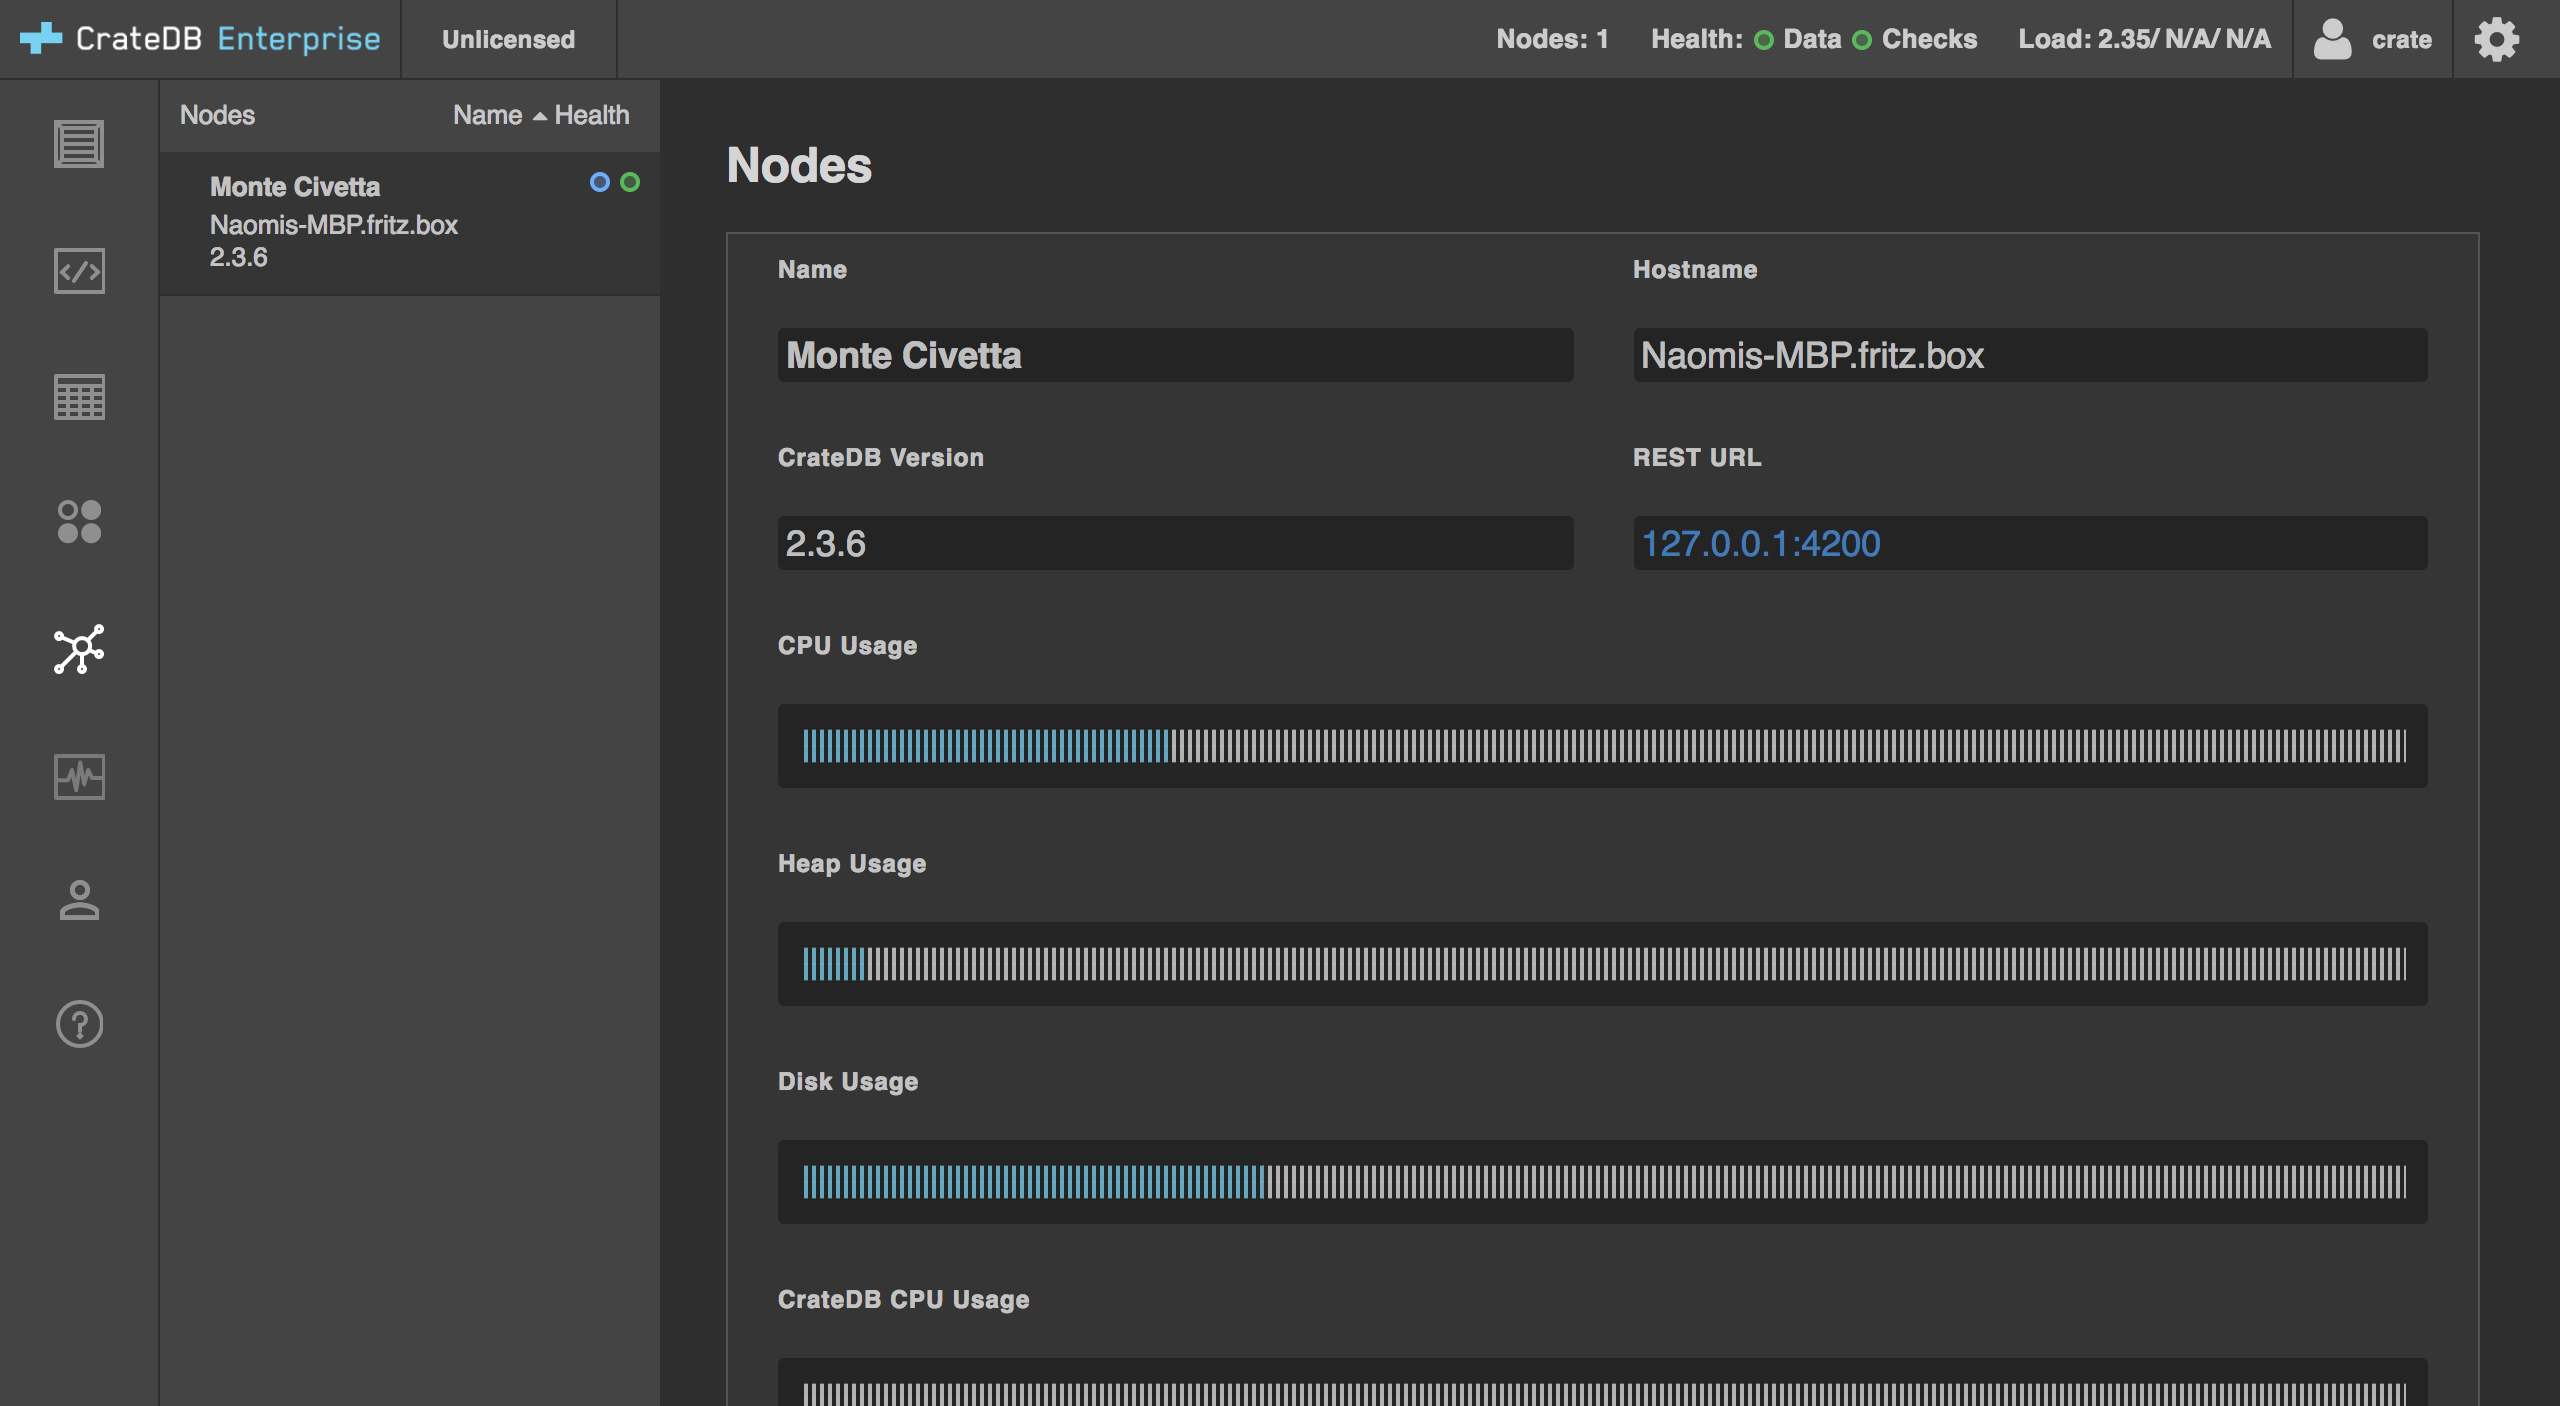
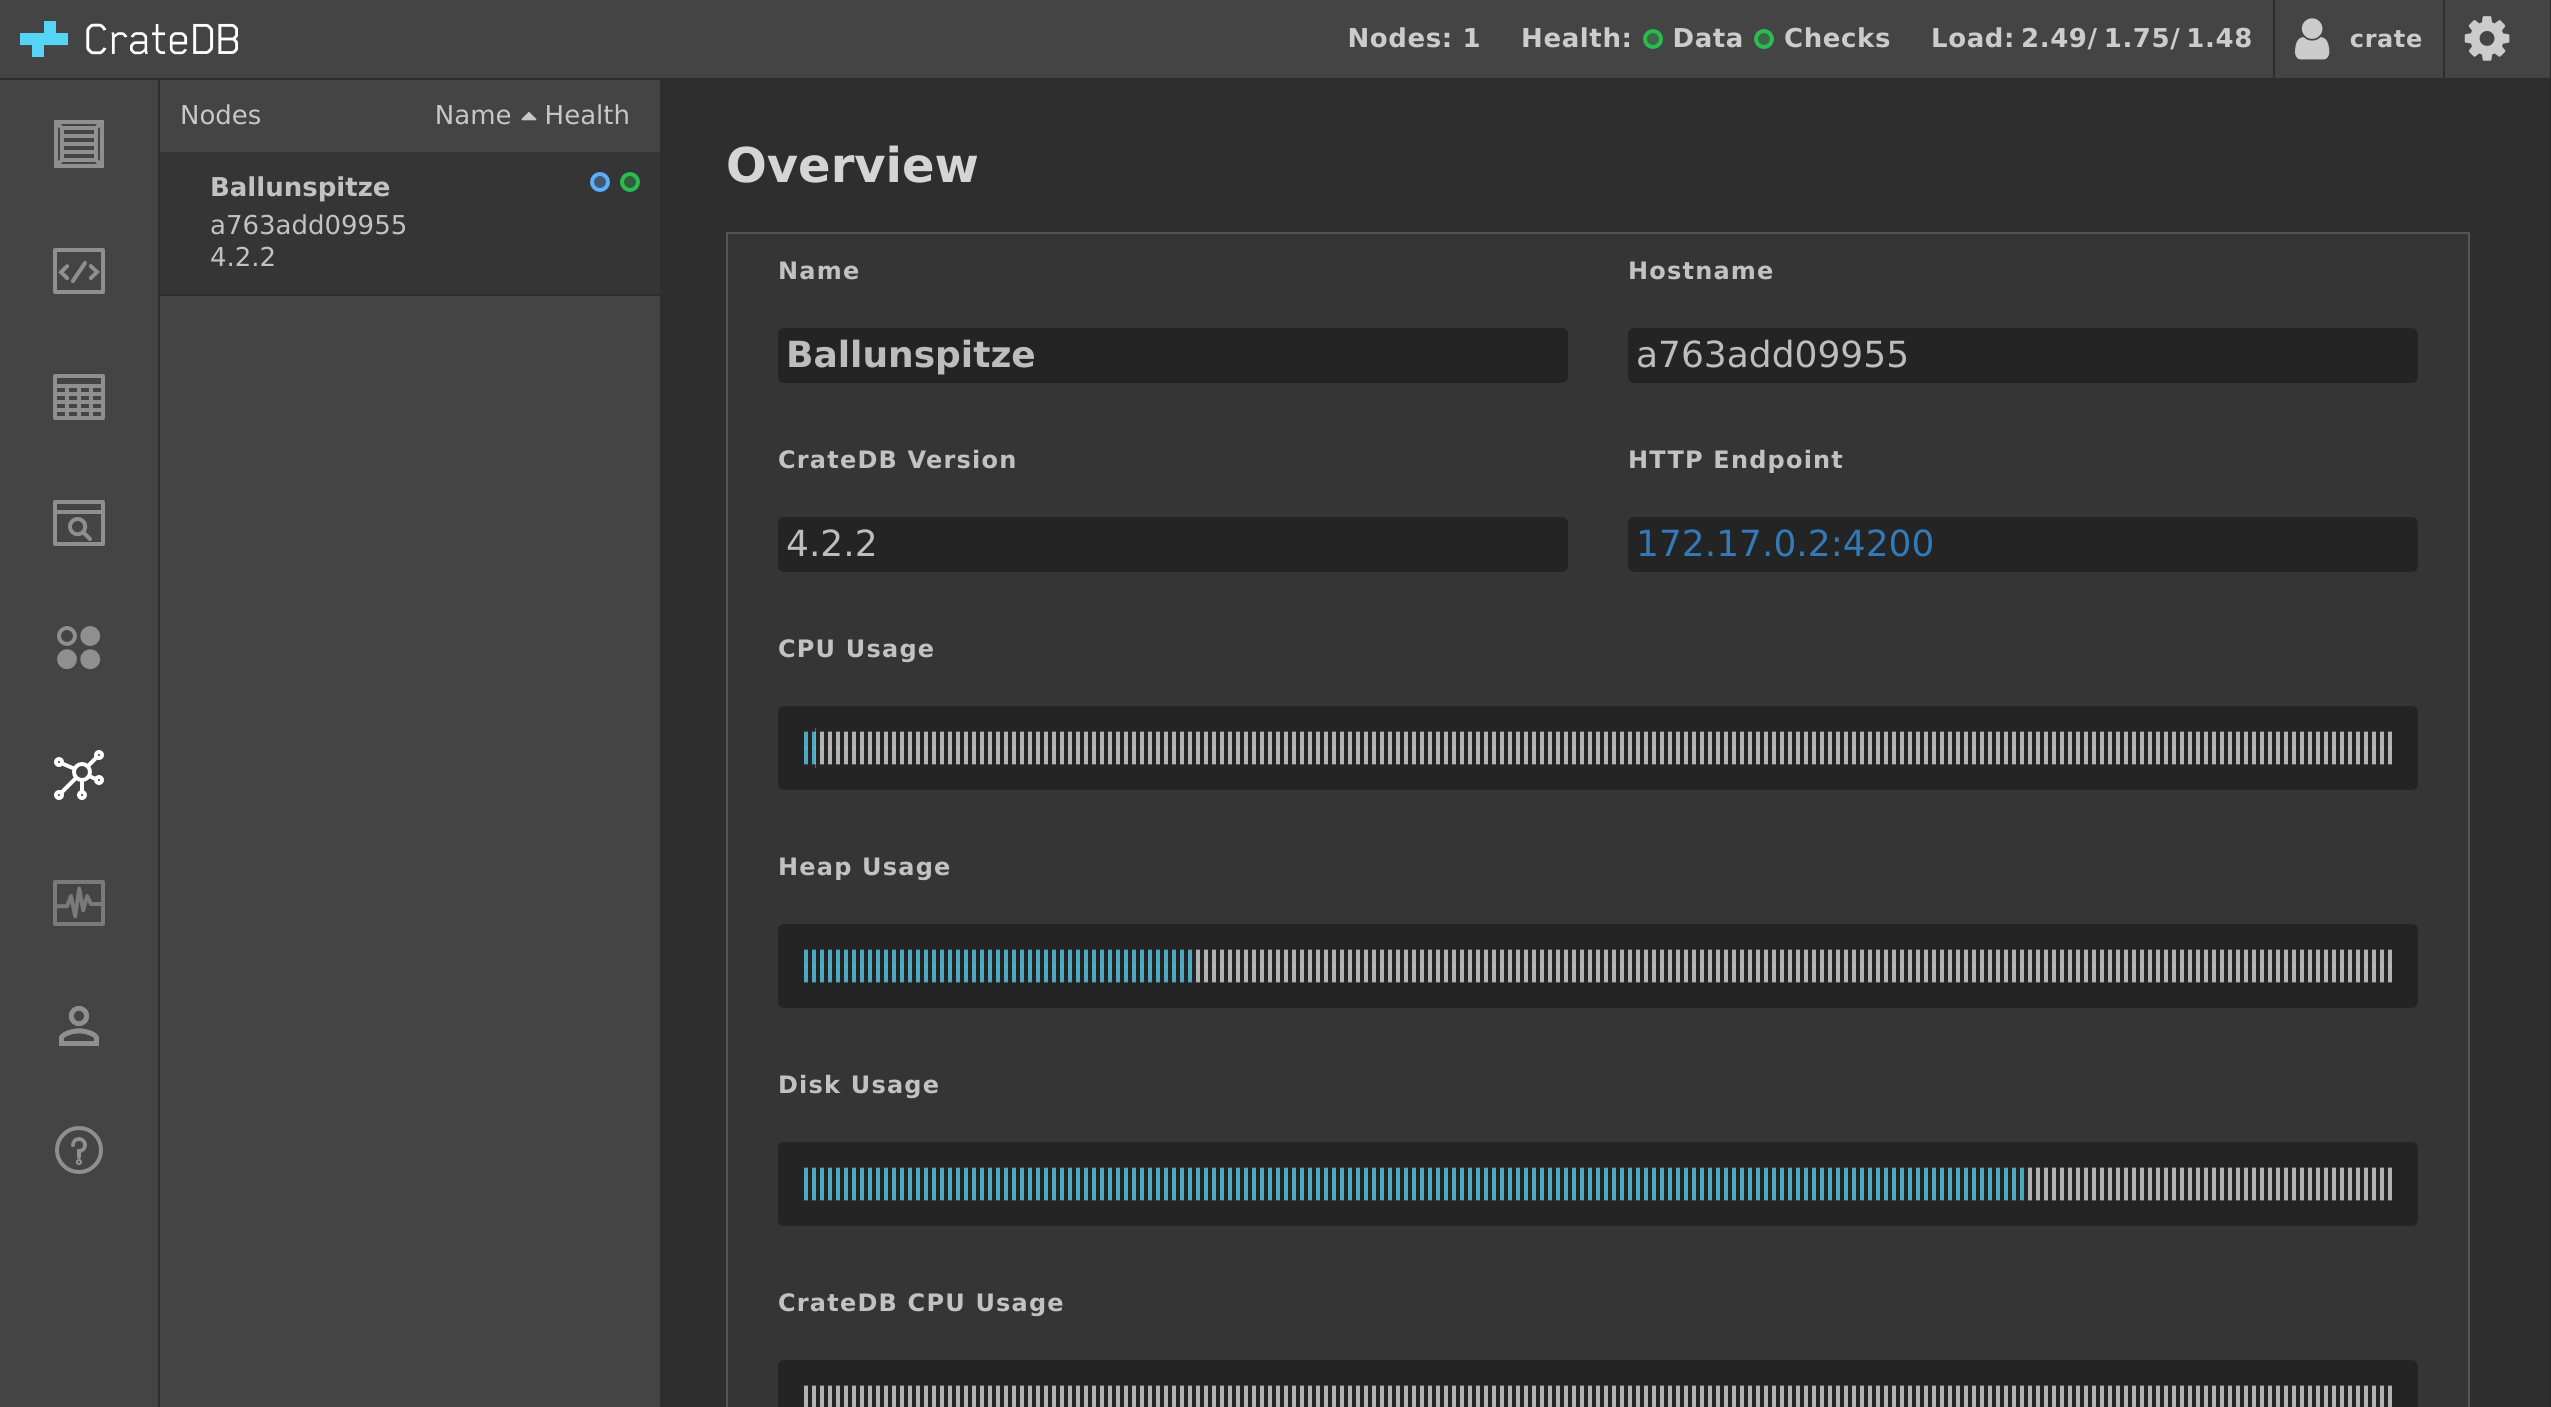
Correct uppercasing of 'HTTP Endpoint'

diff --git a/CHANGES.rst b/CHANGES.rst
@@ -5,6 +5,11 @@ Changes for Crate Admin Interface
 Unreleased
 ==========
 
+Fixes
+-----
+
+- Fixed uppercase spelling of 'HTTP Endpoint' in cluster view.
+
 Changes
 -------
 
